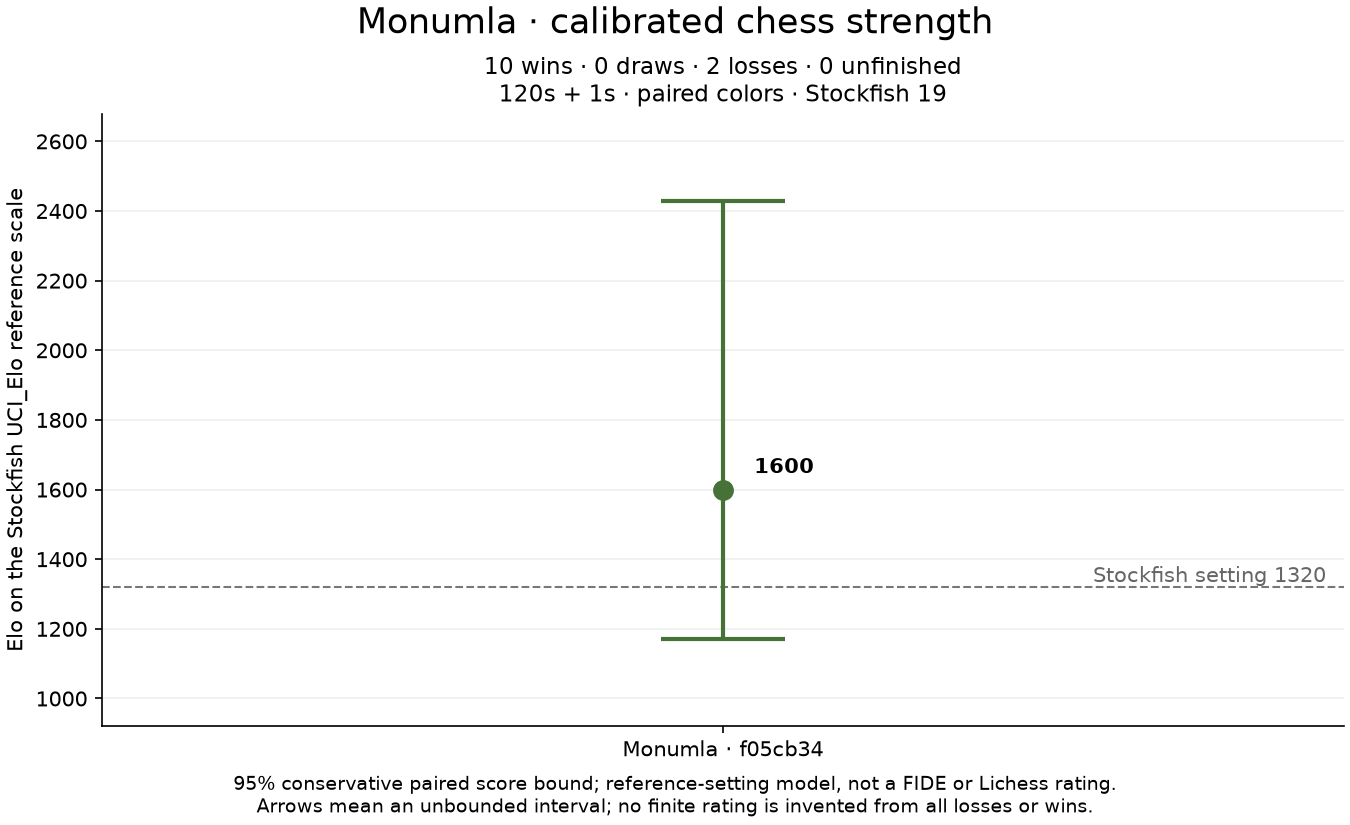
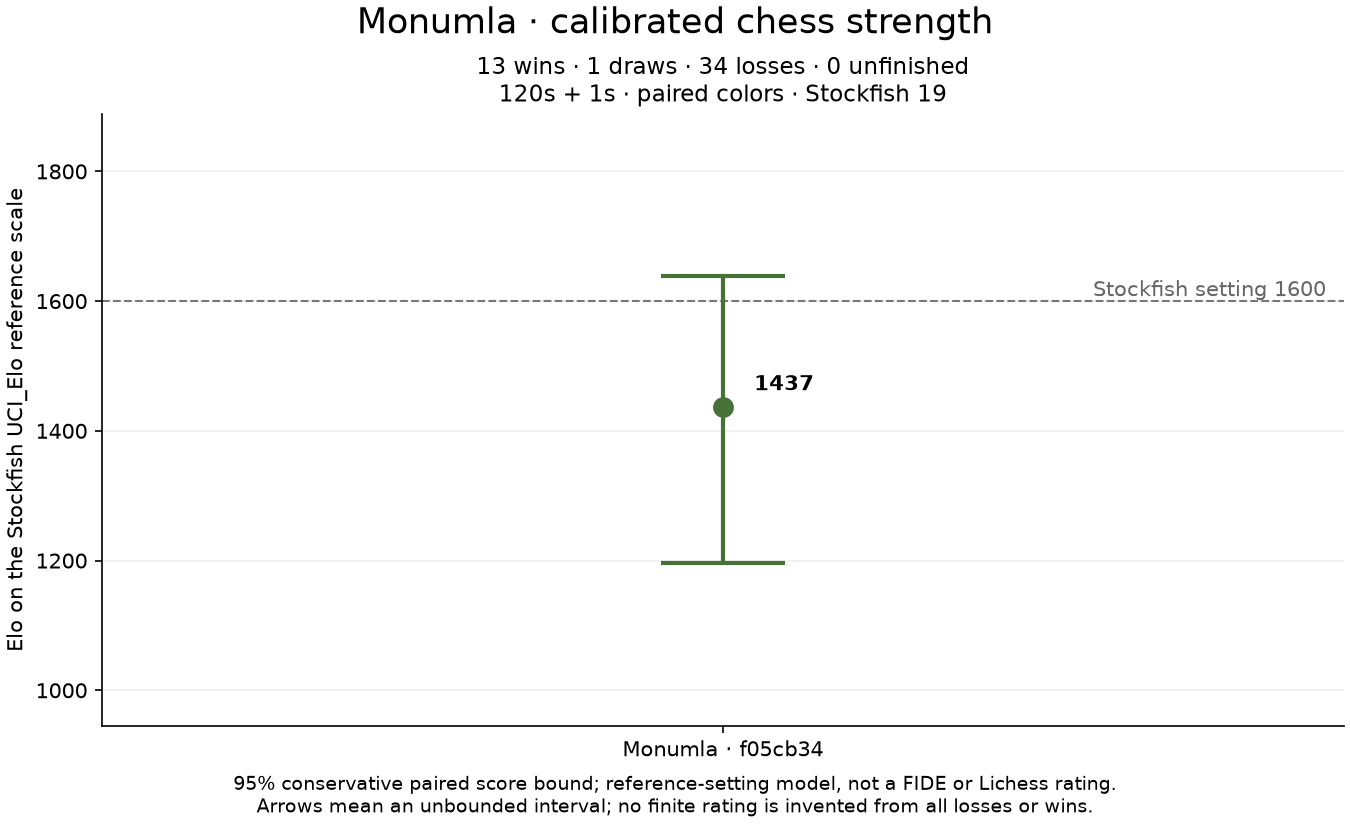
docs(bench): publish 48-game chess calibration

diff --git a/benchmarks/RESULTS.md b/benchmarks/RESULTS.md
@@ -1,6 +1,6 @@
 # Engine experiment summary
 
-Raw artifacts are generated under ignored `target/monumla-bench/`. This file is a compact record of selected observations, not an append-only dump of runs. None of these match pairs establishes an Elo rating.
+Raw artifacts are generated under ignored `target/monumla-bench/`. This file is a compact record of selected observations, not an append-only dump of runs. Historical tiny matches are not calibrated ratings; the completed reference calibration is recorded below.
 
 ## Initial Stockfish reference (2026-10-23)
 
@@ -114,7 +114,7 @@ All **226 release Rust tests**, Clippy, the production build and **100 desktop/m
 
 ## First Stockfish reference calibration
 
-[The chess Elo graph](elo.png) and [complete result](elo.json) now contain the first finished reference match: **10 wins, 0 draws, 2 losses** against **Stockfish 19, UCI_Elo 1320**, at **120 seconds + 1 second increment**, one search thread per engine. All six swapped-color pairs finished; every game ended by checkmate, with no time/search forfeits or exclusions. The frozen host source is `f05cb34`, with the shared engine implementation from `d0ab8ac` unchanged. Binary identities and all options are retained in the result.
+The first finished reference match scored **10 wins, 0 draws, 2 losses** against **Stockfish 19, UCI_Elo 1320**, at **120 seconds + 1 second increment**, one search thread per engine. All six swapped-color pairs finished; every game ended by checkmate, with no time/search forfeits or exclusions. The frozen host source is `f05cb34`, with the shared engine implementation from `d0ab8ac` unchanged. Binary identities and all options are retained in the result.
 
 The estimate is **1599.6 Elo on the Stockfish UCI_Elo reference scale**, with a conservative paired 95% interval of **1172.0–2428.7**. Twelve games give only a coarse initial calibration, not a precise human rating or evidence of an improvement over an older Monumla version. Additional reference levels are being tested to find a closer, approximately equal-strength opponent.
 
@@ -124,6 +124,14 @@ The exact calibration control and CCRL anchor are documented in [Stockfish's UCI
 
 The same frozen Monumla host and Stockfish 19 binaries completed the second predeclared discovery batch at **UCI_Elo 1600**, still at **120s+1s**. Monumla scored **5 wins, 0 draws, 7 losses (41.7%)**. All six color-swapped pairs finished by checkmate, without forfeits or exclusions. The interrupted run preserved its three completed games and archived incomplete traces before resuming. All **1,113 positions** passed the rules audit, with no claimable draws; actual level and clock settings matched the plan.
 
-[The discovery curve](elo-calibration.png) shows both tested settings: 10–0–2 at 1320 and 5–0–7 at 1600. These are different opponents for the same engine, not successive engine improvements. The per-setting 95% bounds remain broad. The 1600 result is inside the predeclared 40–60% target band, selecting it for a **fresh 48-game confirmation**, whose complete schedule was recorded before play. This confirmation is in progress; the published `elo.json` and `elo.png` retain the older preliminary result until all 48 games finish and pass review.
+[The discovery curve](elo-calibration.png) shows both tested settings: 10–0–2 at 1320 and 5–0–7 at 1600. These are different opponents for the same engine, not successive engine improvements. The per-setting 95% bounds remain broad. The 1600 result is inside the predeclared 40–60% target band, selecting it for a **fresh 48-game confirmation**, whose complete schedule was recorded before play. The confirmation subsequently completed; its result replaces the older preliminary estimate below.
 
 The durable driver in `scripts/bench/reference_ladder.py` records every batch before play and resumes the same schedule after interruption. Discovery chooses the reference setting; only the independent confirmation determines the final fixed-sample Elo interval. Raw discovery, confirmation, plans and restart metadata remain under ignored `target/monumla-bench/chess-calibration-d0ab8ac/` and the original reference directories.
+
+## Fixed chess confirmation (2026-10-28)
+
+[The Elo graph](elo.png) and [complete reference result](elo.json) now use all **48 predeclared confirmation games** against Stockfish 19 at **UCI_Elo 1600**, **120s+1s**, one search thread each: **13 wins, 1 draw, 34 losses (28.125%)**. All 24 swapped-color pairs finished, with **zero forfeits, unfinished games or exclusions**. There were 47 checkmates and one rules-defined dead-position draw. All **5,047 positions** passed the frozen WASM rules audit, with no claimable draws or result mismatches; each settings file matched the declared clocks and reference level.
+
[1 lines of base64/hex data omitted]
+
+The confirmation shows that 1600 is stronger than the desired even opponent in this sample. A follow-up selection plan, recorded when 24 confirmation games had completed, calls for further full 12-game level checks if needed. These checks use the existing bracket rule and retain every result. **The original 48-game confirmation always determines the primary estimate and interval**, regardless of later scores; later checks cannot replace or improve that result selectively. The level checks appear separately in [the calibration curve](elo-calibration.png). Raw results, PGNs, immutable declarations and audits remain under ignored `target/monumla-bench/chess-calibration-d0ab8ac/`.
